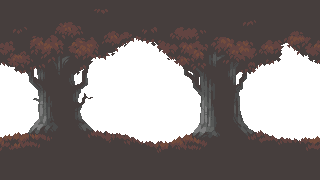
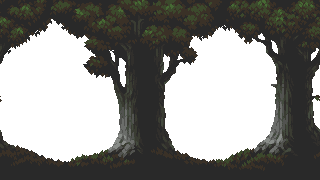
Pássaro e Parallax
Fundo parallax adicionado, mas apenas estatico

diff --git a/MyFlappyBird/módulos/Pássaro/__init__.py b/MyFlappyBird/módulos/Pássaro/__init__.py
@@ -1,22 +1,29 @@
+"""Bird class file"""
+
+# & /Imports Bird\ & #
+# ------ General defs ------ #
 import arcade
-from typing import Optional
-from os import path  # Get files
+from os import path
 # ------ Game variables ------ #
-import variáveis as v
+from variáveis import B_SPRITE_TSCALING, B_JUMP_IMPULSE
+from variáveis import B_SET_ANGULO, B_SPRITE_SIZE
+from variáveis import B_MAXC_ROTAÇÃO, B_MAXB_ROTAÇÃO
+from variáveis import B_FRICTION, B_MASSA, B_ANIMATION_SPEED
+from variáveis import B_MAXV_SPEED, B_MAXH_SPEED
+# & \Imports Bird/ & #
 
 
 class Bird(arcade.Sprite):
     """ Bird Sprite """
     def __init__(self, x, y, diretorio):
-        """ Init """
+        """ Init Bird """
         super().__init__()
 
         self.x, self.y = x, y
+        self.scale: float = B_SPRITE_TSCALING
 
-        # Set our scale
-        self.scale: float = v.B_SPRITE_TSCALING
-
-        main_path = path.join(diretorio, 'texturas/Animation_bird/Verde/Passaro_verde')
+        main_path_cor = 'verde', 'vermelho', 'azul'
+        main_path: str = path.join(diretorio, f'texturas/Animation_bird/{main_path_cor[0]}/Passaro_{main_path_cor[0]}')
 
         # Conjunto de texturas/Carregando texturas
         self.voando_texturas = [arcade.load_texture_pair(
@@ -43,37 +50,37 @@ class Bird(arcade.Sprite):
 
         # Animação de voar
         if not is_on_ground and dy > 0.1 and abs(self.y_odometer) > 5:
-            self.x_odometer = 0
-            self.index_texture += 0.35
-            if self.index_texture > 7: self.index_texture = 0
-            self.texture = self.voando_texturas[int(self.index_texture)][0]
-            self.rotação -= 6
-        else:
-            self.rotação += 5
+            self.set_animation_sprites(7, B_ANIMATION_SPEED)
+            self.rotação -= B_SET_ANGULO
+        else: self.rotação += B_SET_ANGULO-1
 
-        self.angle = self.rotação
-        if self.angle <= v.B_MAXC_ROTAÇÃO:
-            self.rotação = v.B_MAXC_ROTAÇÃO
-        elif self.angle >= v.B_MAXB_ROTAÇÃO:
-            self.rotação = v.B_MAXB_ROTAÇÃO
+        self.angle = self.rotação  # Define o angulo
+        # Não deixa ultrapassar do angulo máximo
+        if self.angle <= B_MAXC_ROTAÇÃO: self.rotação = B_MAXC_ROTAÇÃO
+        elif self.angle >= B_MAXB_ROTAÇÃO: self.rotação = B_MAXB_ROTAÇÃO
+
+    def set_animation_sprites(self, q_sprite, speed_sprite):
+        self.x_odometer = 0
+        self.index_texture = (self.index_texture + speed_sprite) % q_sprite
+        self.texture = self.voando_texturas[int(self.index_texture)][0]
 
     def set_bird_location(self):
-        self.center_x = v.B_SPRITE_SIZE * self.x + v.B_SPRITE_SIZE / 2
-        self.center_y = v.B_SPRITE_SIZE * self.y + v.B_SPRITE_SIZE / 2
+        self.center_x = B_SPRITE_SIZE * self.x + B_SPRITE_SIZE / 2
+        self.center_y = B_SPRITE_SIZE * self.y + B_SPRITE_SIZE / 2
 
     def created_física(self, damping, gravity):
         return arcade.PymunkPhysicsEngine(damping=damping, gravity=gravity)
 
     def set_física(self, física):
         física.add_sprite(self,
-                          friction=v.B_FRICTION,
-                          mass=v.B_MASSA,
+                          friction=B_FRICTION,
+                          mass=B_MASSA,
                           moment=arcade.PymunkPhysicsEngine.MOMENT_INF,
-                          max_vertical_velocity=v.B_MAXV_SPEED,
-                          max_horizontal_velocity=v.B_MAXH_SPEED,
+                          max_vertical_velocity=B_MAXV_SPEED,
+                          max_horizontal_velocity=B_MAXH_SPEED,
                           collision_type="player")
 
     def pular(self, chave, física):
         if chave == arcade.key.UP or chave == arcade.key.SPACE:
-            impulse = (0, v.B_JUMP_IMPULSE)
+            impulse = (0, B_JUMP_IMPULSE)
             física.apply_impulse(self, impulse)

diff --git a/MyFlappyBird/MyFlappyBird.py b/MyFlappyBird/MyFlappyBird.py
@@ -6,9 +6,12 @@ import arcade
 from typing import Optional
 from os import path, getcwd  # Get files
 # ------ Game variables ------ #
-import variáveis as v
+from variáveis import ARQUIVO
+from variáveis import W_LARGURA, W_ALTURA, W_TÍTULOS
+from variáveis import DEFAULT_DAMPING, W_GRAVIDADE
 # ------ Window modules ------ #
 from módulos.Pássaro import Bird
+from módulos.Parallax import Parallax
 # & \Imports World/ & #
 
 
@@ -21,7 +24,7 @@ class Jogo(arcade.Window):
     Main application class.
     """
 
-    diretorio: str = path.join(getcwd(), v.ARQUIVO)
+    diretorio: str = path.join(getcwd(), ARQUIVO)
 
     @classmethod
     def main(cls):
@@ -31,7 +34,7 @@ class Jogo(arcade.Window):
         arcade.run()
 
     def __init__(self):
-        super().__init__(v.W_LARGURA, v.W_ALTURA, v.W_TÍTULOS)
+        super().__init__(W_LARGURA, W_ALTURA, W_TÍTULOS)
 
         # Janela
         arcade.set_background_color(arcade.csscolor.BLACK)
@@ -39,6 +42,11 @@ class Jogo(arcade.Window):
 
         # Pássaro
         self.pássaro: Optional[arcade.Sprite] = None
+        self.pássaro_lista: Optional[arcade.SpriteList] = None
+
+        # Fundo
+        self.fundo = None
+        self.fundo_lista: Optional[arcade.SpriteList] = None
 
         # Physics engine
         self.physics_engine: Optional[arcade.PymunkPhysicsEngine] = None
@@ -46,18 +54,21 @@ class Jogo(arcade.Window):
     def setup(self):
         """Inicia o jogo. E caso seja chamado o reinicia."""
 
-        # Grupo do pássaro
+        # Grupo/Sprite do pássaro/Bird
         self.pássaro_lista = arcade.SpriteList()
-
-        # Bird/Pássaro
         self.pássaro = Bird(3.5, 6, self.diretorio)
 
-        # Adiciona o sprite do pássaro no grupo
+        # Grupo/Sprite do pássaro/Bird
+        self.fundo_lista = arcade.SpriteList()
+        self.fundo = Parallax(3.5, 6.2, self.diretorio)
+
+        # Adiciona os sprites nos grupos
         self.pássaro_lista.append(self.pássaro)
+        [self.fundo_lista.append(self.fundo._return(index)) for index in range(3)]
 
         # --- Pymunk Physics Engine Setup ---
-        damping = v.DEFAULT_DAMPING
-        gravity = (0, -v.W_GRAVIDADE)
+        damping = DEFAULT_DAMPING
+        gravity = (0, -W_GRAVIDADE)
 
         self.physics_engine = self.pássaro.created_física(damping, gravity)
         self.pássaro.set_física(self.physics_engine)
@@ -67,6 +78,7 @@ class Jogo(arcade.Window):
 
         self.clear()
 
+        self.fundo_lista.draw(pixelated=True)
         self.pássaro_lista.draw(pixelated=True)
 
     def on_update(self, delta_time):

diff --git a/MyFlappyBird/módulos/Floresta/__init__.py b/MyFlappyBird/módulos/Floresta/__init__.py
@@ -1,0 +1,43 @@
+"""Background class file"""
+
+# & /Imports Background\ & #
+# ------ General defs ------ #
+import arcade
+from os import path
+# ------ Game variables ------ #
+from variáveis import F_SPRITE_SIZE, F_SPRITE_TSCALING
+from variáveis import ARQUIVO_BACKGROUND
+# & \Imports Background/ & #
+
+
+class Background():
+    """ Background Sprites """
+    def __init__(self, x, y, diretorio):
+        """ Init Background """
+        super().__init__()
+
+        self.x, self.y = x, y
+
+        main_path: str = path.join(diretorio, ARQUIVO_BACKGROUND)
+
+        # Conjunto de texturas/Carregando texturas
+        self.background_texturas = [arcade.Sprite(
+            f"{main_path}_floresta{texture}.png", hit_box_algorithm='None'
+            ) for texture in range(3)]
+
+    def set_location(self, background):
+        """ Set position background """
+        background.center_x = F_SPRITE_SIZE * self.x + F_SPRITE_SIZE / 2
+        background.center_y = F_SPRITE_SIZE * self.y + F_SPRITE_SIZE / 2
+
+    def set_scaling(self, background):
+        """ Set scale background """
+        background.scale: float = F_SPRITE_TSCALING
+
+    def set_size(self, background):
+        self.set_location(background)
+        self.set_scaling(background)
+
+    def return_sprite(self, index):
+        """ return background sprite """
+        return self.background_texturas[index]

diff --git a/MyFlappyBird/variáveis.py b/MyFlappyBird/variáveis.py
@@ -1,5 +1,4 @@
 """Global constants file"""
-from arcade import csscolor
 
 # -----------------------------------#
 # /absolute variables of the world\ #
@@ -10,6 +9,7 @@ W_TÍTULOS: str = 'FlappyGame...'
 W_GRAVIDADE: int = 1500
 
 ARQUIVO: str = 'MyFlappyBird'
+ARQUIVO_BACKGROUND: str = 'texturas/background/background'
 # \absolute variables of the world/ #
 # -----------------------------------#
 
@@ -18,15 +18,23 @@ ARQUIVO: str = 'MyFlappyBird'
 
 # $ Variáveis do pássaro $ #
 # --- B = Bird/Pássaro --- #
-B_SPRITE_ISIZE = 13
+B_SPRITE_ISIZE: int = 13
 B_SPRITE_PSCALING = B_SPRITE_TSCALING = 4.0
-B_DAMPING = 0.4
-B_FRICTION = 1.0
-B_MASSA = 1.9
-B_JUMP_IMPULSE = 1800
-B_MAXH_SPEED = 450
-B_MAXV_SPEED = 1200
-B_MAXC_ROTAÇÃO, B_MAXB_ROTAÇÃO = -45, 55
+B_DAMPING: float = 0.4
+B_FRICTION: float = 1.0
+B_MASSA: float = 1.9
+B_JUMP_IMPULSE: int = 1800
+B_MAXH_SPEED: int = 450
+B_MAXV_SPEED: int = 1200
+B_MAXC_ROTAÇÃO, B_MAXB_ROTAÇÃO = -45, 45
+B_ANIMATION_SPEED: float = 0.35
+B_SET_ANGULO: int = 6
 B_SPRITE_SIZE = int(B_SPRITE_ISIZE * B_SPRITE_PSCALING)
 
-DEFAULT_DAMPING = 1.0
+DEFAULT_DAMPING: float = 1.0
+
+# $ Variáveis do pássaro $ #
+# --- F = Fundo/Background --- #
+F_SPRITE_ISIZE = 1
+F_SPRITE_PSCALING = F_SPRITE_TSCALING = 3.9
+F_SPRITE_SIZE = int(B_SPRITE_ISIZE * B_SPRITE_PSCALING)

diff --git a/MyFlappyBird/módulos/Parallax/__init__.py b/MyFlappyBird/módulos/Parallax/__init__.py
@@ -1,0 +1,26 @@
+"""Parallax program file"""
+
+# & /Imports Parallax\ & #
+# ------ General defs ------ #
+import arcade
+# ------ Game variables ------ #
+import variáveis as v
+# ------ Window modules ------ #
+from módulos.Floresta import Background
+# & \Imports Parallax/ & #
+
+
+class Parallax:
+    """ Parallax class file """
+
+    def __init__(self, x, y, diretorio):
+        self.background = Background(x, y, diretorio)
+
+        [self.background.set_size(self.background.return_sprite(index)
+                                  ) for index in range(3)]
+
+    def _return(self, index):
+        return self.background.return_sprite(index)
+
+    def movimento(self):
+        pass
